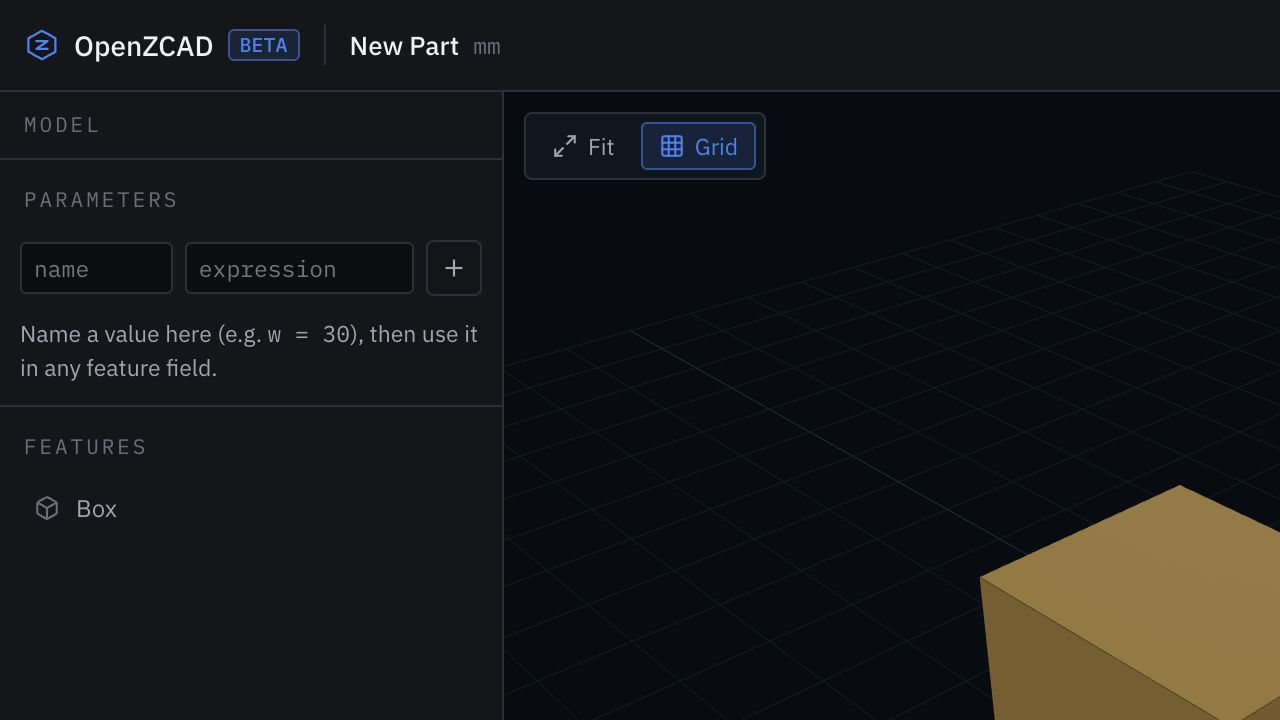
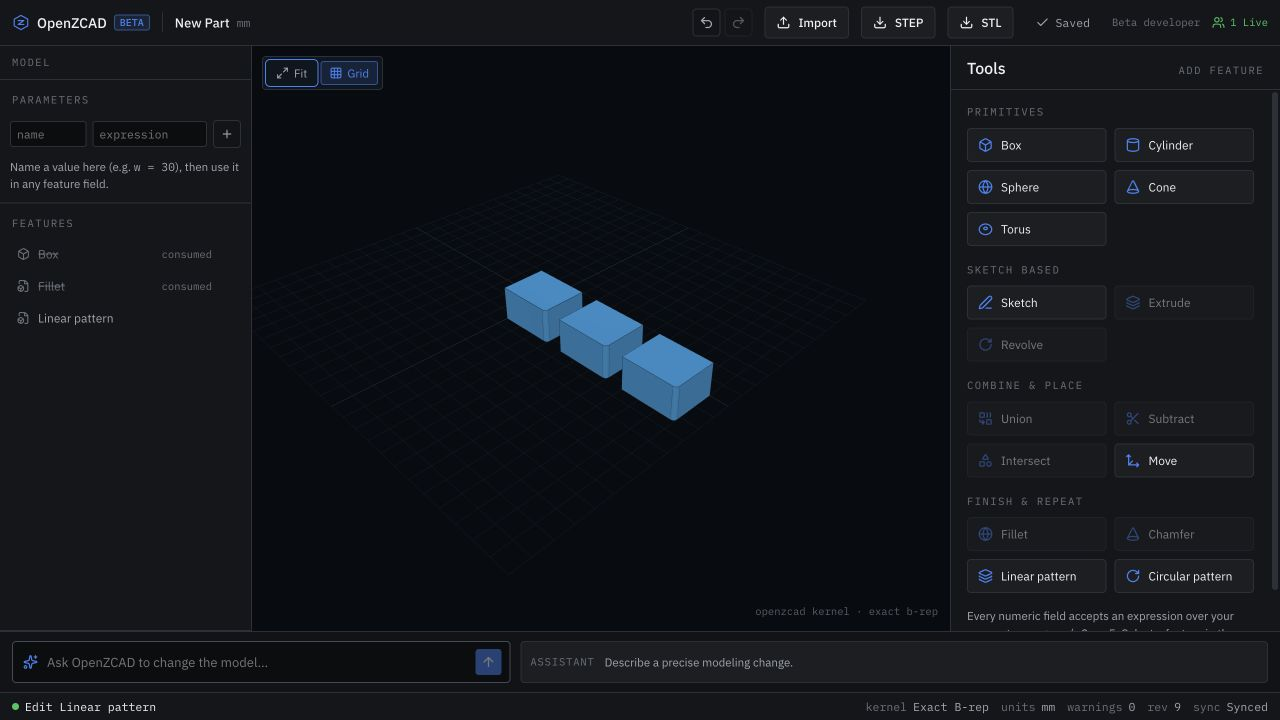
docs: update completed milestone guide

diff --git a/README.md b/README.md
@@ -6,11 +6,13 @@ OpenZCAD is a browser-first parametric CAD workspace for people who want to turn
 
 ## What works
 
-- Exact OpenCascade geometry for box, cylinder, sphere, cone, torus, sketch/extrude, revolve, transforms, and union/subtract/intersect booleans.
+- Exact OpenCascade geometry for primitives, sketch/extrude, revolve, transforms, booleans, fillet, chamfer, and linear/circular patterns.
 - Parametric expressions, ordered feature history, editing, deletion, deterministic replay, transactions, and undo/redo.
-- STEP and STL downloads generated by the same browser worker that rebuilds viewport geometry. Exact STEP exports are re-imported and validated in the test suite.
-- A dense model/viewport/inspector workspace with measurements, selection, diagnostics, and responsive compact states.
+- Editable STEP import stored in replayable document history, plus STEP and STL downloads generated by the same browser worker that rebuilds viewport geometry.
+- A dense model/viewport/inspector workspace with exact face/edge selection, contextual finishing actions, measurements, diagnostics, and responsive compact states.
 - Local-first IndexedDB autosave. When local and beta-cloud copies differ, OpenZCAD opens the newer document version instead of discarding local work.
+- Cloudflare Access identity in beta, owner-scoped project/artifact routes, and a development-only local identity mode. `AUTH_LEGACY_OWNER_EMAIL` can map existing beta data to its original owner without rewriting documents.
+- Live per-project collaboration over a Durable Object WebSocket room, with presence, version-aware document sync, and conflict preservation.
 - Optional streamed AI proposals through the OpenAI Responses API. Output is constrained to a strict CAD patch schema; users preview, apply, or reject it. Apply creates one normal undoable transaction.
 - Beta Worker endpoints for project persistence, revisions/checkpoints, upload coordination, artifact metadata, exports, and AI proposal streaming.
 
@@ -27,7 +29,8 @@ React workspace
 Cloudflare Worker (beta orchestration only)
   ├─ D1 project metadata and documents
   ├─ R2 artifact coordination
-  ├─ Durable Object collaboration scaffolding
+  ├─ Cloudflare Access identity + owner authorization
+  ├─ Durable Object live project rooms
   └─ OpenAI Responses API stream → strict CadPatchProposal
 ```
 
@@ -36,7 +39,7 @@ Important boundaries:
 - The browser document/history model is the source of truth. Meshes are disposable projections.
 - Geometry and exports run in the browser worker, never in the Cloudflare Worker.
 - AI can propose a small allowlisted command patch. It cannot directly mutate a document, viewport, or kernel.
-- Saves/checkpoints are separate from model-edit revisions. Schema-v1 documents migrate to schema v2 on load.
+- Saves/checkpoints are separate from model-edit revisions. Schema-v1 documents migrate to schema v2 on load and existing owner data can be mapped by email.
 
 See [architecture.md](architecture.md) and the decisions in [docs/adrs](docs/adrs).
 
@@ -51,6 +54,8 @@ pnpm dev:web
 ```
 
 Open the local URL printed by Vite. The CAD workspace works without an AI key; the assistant displays a clear configuration message until one is provided.
+
+Local development uses `AUTH_MODE=development` and the isolated `user_beta_dev` identity. Beta deployment uses `AUTH_MODE=cloudflare-access` and must sit behind a Cloudflare Access policy. Set `AUTH_LEGACY_OWNER_EMAIL` as a Worker secret or variable to the Access email that should inherit historical `user_beta_dev` projects.
 
 Configure secrets only in `apps/web/.dev.vars` or with `wrangler secret`:
 
@@ -83,30 +88,34 @@ The exact-kernel WASM bundle is about 22 MB uncompressed (about 7 MB gzip). It i
 ## API surface
 
 - `GET /api/health`
+- `GET /api/session`
 - `GET|POST /api/projects`
 - `GET /api/projects/:id`
 - `POST /api/projects/:id/revisions`
+- `GET /api/projects/:id/collaboration` (WebSocket upgrade)
 - `POST /api/uploads`
 - `POST /api/imports/finalize`
 - `POST /api/exports`
 - `GET /api/artifacts/:id`
 - `POST /api/assistant/proposals` (SSE)
 
-Existing project, revision, upload, import, export, and artifact routes were preserved. The AI proposal endpoint is additive.
+Existing project, revision, upload, import, export, and artifact route shapes were preserved. Session and collaboration routes are additive; existing data remains schema compatible.
 
 ## Beta limitations and risks
 
-- Authentication is not implemented. API requests use a fixed beta development user; do not expose this as a production service.
+- The beta route must be protected by Cloudflare Access. Local development identity mode is intentionally unsuitable for a public deployment.
 - D1/R2 IDs in the checked-in Wrangler configuration are beta placeholders until real beta resources are provisioned.
-- STEP upload currently reads metadata only. Exact STEP B-rep import exists at the kernel layer but is not yet represented as editable document features.
+- Editable STEP sources are embedded in the canonical document for deterministic offline replay and capped at 12 MB. This preserves editability but can make large documents expensive to save and sync.
 - Imported STL remains a mesh body and uses the compatibility path; native parametric reconstruction is not attempted.
-- AI proposal operations intentionally cover parameters, primitive creation/deletion, and selected feature dimensions. Complex sketch topology, patterns, fillets, and assemblies remain manual until their document commands exist.
+- Topology references use deterministic sub-shape ordinals. They survive an unchanged rebuild, but upstream geometry edits can reorder faces or edges and invalidate a downstream finishing feature with a visible diagnostic.
+- Live rooms synchronize canonical documents and presence, but do not yet provide invitations, roles, edit locks, or durable room history. Snapshots above 900 KB continue to save locally/cloud-side but are not broadcast live.
+- AI proposal operations intentionally remain narrower than the manual command surface: finishing features, patterns, and collaboration actions are not yet model-generated.
 - Exactness-first geometry adds a meaningful initial worker download. Service-worker caching and finer code splitting are future performance milestones.
 
 ## Next milestones
 
-1. Authentication and per-user project authorization.
-2. Editable STEP import and richer asset manifests.
-3. Face/edge selection, fillet/chamfer, patterns, mirror, shell, and face-attached sketches.
-4. Collaboration presence/locks on the existing Durable Object scaffolding.
-5. Broader AI patch operations as each feature receives a deterministic command contract.
+1. Sharing invitations, viewer/editor roles, locks, and durable collaboration history.
+2. Mirror, shell/offset, face-attached sketches, holes/pockets, and richer STEP assembly manifests.
+3. Persistent naming resilient to upstream topology changes.
+4. Broader AI patch operations as each feature receives a deterministic command contract.
+5. Exact-kernel caching, loading UX, and finer worker bundle splitting.

diff --git a/architecture.md b/architecture.md
@@ -4,11 +4,11 @@ OpenZCAD is a local-first parametric CAD system. The canonical `ProjectDocument`
 
 ## Layers
 
-- `shared`: branded IDs and schema-v2 contracts for nodes, revisions, checkpoints, assets, derived bodies, and API payloads.
-- `document-core`: immutable document operations, feature ordering, parameter expression evaluation, v1-to-v2 normalization, and checkpoint creation.
+- `shared`: branded IDs and schema-v2 contracts for nodes, revisions, checkpoints, assets, derived topology, collaboration messages, and API payloads.
+- `document-core`: immutable document operations, feature ordering, parameter expression evaluation, editable STEP features, finishing/pattern features, v1-to-v2 normalization, and checkpoint creation.
 - `command-system`: pre-assigned deterministic IDs, validation, transactions, replay, and bounded undo/redo. It also converts reviewed `CadPatchProposal` operations into ordinary commands.
 - `ai-contracts`: compact document digests, the strict JSON Schema sent to the model, runtime proposal validation, and the allowlisted patch operation types.
-- `kernel-adapter/exact`: the `occt-wasm` OpenCascade adapter. It owns exact primitives, sweeps, transforms, booleans, tessellation, validity checks, measurements, and STEP/STL export.
+- `kernel-adapter/exact`: the `occt-wasm` OpenCascade adapter. It owns exact primitives, STEP import, sweeps, transforms, booleans, edge finishing, patterns, tessellation/topology projection, validity checks, measurements, and STEP/STL export.
 - `kernel-adapter` and `geometry`: compatibility support for imported mesh bodies and deterministic legacy tests. They are not the primary exact modeling path.
 - `viewport`: Three.js projection and picking only. It never mutates canonical geometry or document state.
 - `persistence` and `cloudflare-adapters`: local/in-memory and D1/R2 implementations, schema normalization, revisions/checkpoints, upload sessions, and artifact coordination.
@@ -24,11 +24,21 @@ OpenZCAD is a local-first parametric CAD system. The canonical `ProjectDocument`
 6. The app rejects stale results and attaches only matching derived state without advancing model history.
 7. Manual save creates a durable checkpoint in the beta persistence service.
 
+Exact faces and edges are projected with deterministic one-based sub-shape ordinals. Selection remains viewport state until a command captures an ordinal; feature commands never depend on Three.js objects or transient OCCT handles.
+
 When opening a project, local and remote copies are loaded together. The higher document version wins; derived timestamps break ties. This prevents an older cloud response from shadowing newer local edits.
 
 ## Exact export lifecycle
 
 STEP/STL buttons send an export request to the existing geometry worker with the current document and selected live body IDs. The worker rebuilds the exact shapes and exports them through OpenCascade. The main thread only creates the download and records best-effort export metadata with the Worker API. The viewport and export therefore share the same exact build path.
+
+## Editable STEP lifecycle
+
+The browser reads an imported STEP file (up to 12 MB), records the source text and artifact reference in an `imported-step` feature command, and sends the canonical document to the geometry worker. OpenCascade imports the exact shape on every replay, so later transforms, booleans, fillets, chamfers, patterns, selection, and export use the same exact B-rep path. The Worker archives the source best-effort; replay does not depend on that network artifact.
+
+## Collaboration lifecycle
+
+After project ownership is authorized, the client upgrades `GET /api/projects/:id/collaboration` to a WebSocket. A per-project Durable Object broadcasts presence and canonical document snapshots, accepts only newer versions, and reports same-version divergent documents as conflicts. Clients preserve local state on conflict, strip derived meshes before transmission, debounce edits, and pause live broadcasting above 900 KB. IndexedDB and manual D1 checkpoints remain the durable recovery path.
 
 ## AI lifecycle
 
@@ -41,15 +51,15 @@ The client assembles `response.output_text.delta` events, validates the final pr
 - IndexedDB: immediate local autosave and offline reopen.
 - D1: project documents, project metadata, revision/checkpoint snapshots, upload sessions, and artifact metadata.
 - R2: large source/export assets when configured.
-- Durable Objects: collaboration/presence scaffolding only.
+- Durable Objects: authenticated per-project presence and live document synchronization.
 - Workflows/Queues: export/import orchestration scaffolding.
 - Worker secret: `AI_API_KEY` (with `OPENAI_API_KEY` backward compatibility); never shipped to the browser.
 - `AI_PROVIDER`, `AI_BASE_URL`, `AI_MODEL`, and `AI_REASONING_EFFORT` select a Responses-compatible provider and model without code changes.
 
 ## API and errors
 
-All JSON POST bodies are validated. Oversized bodies return `413`, malformed data `400`, missing resources `404`, unconfigured AI `503`, upstream AI failure `502`, and unexpected errors a generic `500`. Provider error bodies and secrets are never returned to the client.
+All JSON POST bodies are validated. Oversized bodies return `413`, malformed data `400`, unauthenticated requests `401`, unauthorized resources `404`, unconfigured services `503`, upstream AI failure `502`, and unexpected errors a generic `500`. Provider error bodies and secrets are never returned to the client.
 
 ## Security posture
 
-This remains beta-only. There is no authentication; requests act as `user_beta_dev`. Do not add a production target or domain until authentication and per-project authorization exist. Parameter expressions use a parser rather than `eval`. AI output is schema-constrained, runtime-validated, previewed, and user-approved before it becomes a command transaction.
+This remains beta-only. Beta requests require Cloudflare Access identity and all project, revision, artifact, import/export, and collaboration operations are owner-scoped. Development mode supplies an isolated local identity and must not be used on a public route. Cloudflare Access must be configured at the route boundary; the Worker intentionally trusts Access's injected assertion and email headers. Parameter expressions use a parser rather than `eval`. AI output is schema-constrained, runtime-validated, previewed, and user-approved before it becomes a command transaction.

diff --git a/docs/walkthrough.md b/docs/walkthrough.md
@@ -8,5 +8,8 @@
 6. **Combine**: choose **Union**, pick the plate then the boss. Then choose **Subtract**, pick the union result first and the drill cylinder second. The inputs are consumed; the result is a single watertight body.
 7. **Make it parametric**: change `w` to `80` in the sidebar — the whole part rebuilds. Select any feature in the history to edit its inputs, rename it, or delete it; undo/redo covers everything.
 8. **Sketches**: choose **Sketch** for profiles (rectangle/circle/polygon on the XY/XZ/YZ planes, with center offsets and plane offsets), then **Extrude** (distance can be an expression) or **Revolve** (offset the profile so it clears the axis).
-9. **Export**: the STEP button asks the same OpenCascade browser worker that built the viewport to write an exact ISO 10303-21 AP214 file of the selected body (or all live bodies); STL export follows the same path. Open the STEP file in FreeCAD, Fusion, or SolidWorks — it imports as a closed solid.
-10. Keep modeling while IndexedDB autosaves every document change. Use **Save** to create a durable beta-cloud checkpoint when the API is available; if it is not, the newer local version remains the source of truth.
+9. **Finish an edge**: click an exact edge in the viewport. Its stable edge ID appears in the inspector with contextual **Fillet** and **Chamfer** actions. Choose **Fillet**, enter a radius, and create it. Click a face to verify face-level selection in the same inspector.
+10. **Repeat a body**: choose **Linear pattern** or **Circular pattern**, select the latest live body, and set the count, axis, and spacing/angle. The source becomes consumed and the exact compound result remains editable in history.
+11. **Import and keep editing**: use **Import** to choose a STEP file. It becomes an `Imported STEP` feature backed by the embedded exact source, so it can participate in transforms, booleans, finishing, patterns, and export after replay. STL remains a mesh compatibility import.
+12. **Export**: the STEP button asks the same OpenCascade browser worker that built the viewport to write an exact ISO 10303-21 AP214 file of the selected body (or all live bodies); STL export follows the same path. Open the STEP file in FreeCAD, Fusion, or SolidWorks — it imports as a closed solid.
+13. Keep modeling while IndexedDB autosaves every document change. Use **Save** to create a durable beta-cloud checkpoint when the API is available. A green collaboration badge shows room presence; newer edits from another authenticated tab are applied live, while conflicts preserve the local copy for recovery.

diff --git a/TODO.md b/TODO.md
@@ -4,16 +4,16 @@
 
 - Schema-v2 canonical documents with migrations, checkpoints, asset references, command replay, transactions, undo/redo, and local-first autosave.
 - OpenCascade browser-worker kernel with exact primitives, sweeps, transforms, booleans, validity checks, measurements, and exact STEP/STL export.
-- Three-pane CAD workspace, feature editing, diagnostics, selection, responsive compact layout, and AI command rail.
+- Editable exact STEP import, deterministic face/edge selection, fillet/chamfer, and linear/circular patterns.
+- Three-pane CAD workspace, feature editing, diagnostics, contextual topology actions, responsive compact layout, and AI command rail.
 - Configurable streamed AI proposals with strict structured output, dry-run preview, explicit approval, and undoable application.
-- Beta Cloudflare project, revision, upload, export, artifact, and AI routes.
+- Cloudflare Access identity, owner-scoped beta APIs, and legacy-owner mapping.
+- Live per-project Durable Object rooms with presence, version-aware synchronization, and conflict preservation.
 
 ## Next
 
-- Authentication and per-project authorization.
-- Editable exact STEP import represented in the canonical feature/document model.
-- Face/edge selection and face-attached sketches.
-- Fillet, chamfer, shell/offset, mirror, and linear/circular patterns.
+- Invitations, viewer/editor roles, edit locks, and durable collaboration history.
+- Face-attached sketches, shell/offset, mirror, and persistent topology naming.
 - Multi-profile sketches, holes/pockets, partial revolve, and symmetric/two-sided extrude.
 - Broader deterministic AI patch operations for those features.
 - Cache and loading UX improvements for the exact-kernel WASM module.
@@ -22,4 +22,4 @@
 
 - Assemblies and mates.
 - Drawings, dimensions, and inspection tools.
-- Collaboration presence, locks, and conflict resolution on the existing Durable Object scaffold.
+- Constraint solving, design tables, and variant management.

diff --git a/docs/adrs/ADR-007-access-auth-and-live-rooms.md b/docs/adrs/ADR-007-access-auth-and-live-rooms.md
@@ -1,0 +1,18 @@
+# ADR-007: Cloudflare Access Identity and Per-Project Live Rooms
+
+## Status
+
+Accepted.
+
+## Decision
+
+Use Cloudflare Access as the beta identity boundary. The Worker derives a stable user ID from Access's asserted email, scopes every project and artifact operation to that user, and exposes the current identity through `GET /api/session`. Local development uses an explicit `development` mode and the isolated `user_beta_dev` identity. `AUTH_LEGACY_OWNER_EMAIL` maps one Access identity to historical beta data without rewriting stored documents.
+
+Route each authenticated project WebSocket through one Durable Object. The room tracks presence and the latest canonical document, broadcasts only newer versions, and reports same-version divergent snapshots as conflicts. Clients preserve their local document on conflict and continue to use IndexedDB plus D1 checkpoints as durable recovery.
+
+## Consequences
+
+- Existing HTTP route shapes and document schemas remain compatible.
+- The beta route must be protected by a real Cloudflare Access policy; development auth must never be exposed publicly.
+- Collaboration is owner-only for now. Invitations, roles, locks, and durable room event history are separate milestones.
+- Large documents remain editable and saveable, but live broadcast pauses above the client snapshot limit.

diff --git a/docs/design/README.md b/docs/design/README.md
@@ -70,4 +70,7 @@ All visible controls and text are code-native. The concept image is a visual spe
 - Density adaptation: the implemented rails use 46px/252px/330px/28px dimensions so more viewport remains available on common laptop displays.
 - Functional adaptation: the live viewport displays the user's actual model rather than a hard-coded mounting bracket.
 - Functional adaptation: the compact rail shows the proposal summary; Preview makes the proposed geometry inspectable before Apply. Without an AI API key, the rail reports the configuration state.
+- Functional adaptation: authenticated identity and live-room presence sit in the top bar without displacing the core modeling actions.
+- Functional adaptation: finishing and pattern tools extend the contextual inspector while preserving the concept's compact tool density; exact face/edge IDs appear only when selected.
+- QA result: the implemented layout, rail hierarchy, control density, typography, graphite/blue visual system, and core viewport-first workflow remain faithful to the concept. The live QA capture uses actual exact fillet and pattern geometry rather than concept-only sample content.
 - Compact breakpoints preserve the model and viewport first; the inspector hides only below 820 px, where full CAD editing is not the primary target.

diff --git a/docs/adrs/ADR-008-exact-topology-and-finishing.md b/docs/adrs/ADR-008-exact-topology-and-finishing.md
@@ -1,0 +1,17 @@
+# ADR-008: Deterministic Exact Topology References
+
+## Status
+
+Accepted.
+
+## Decision
+
+Expose face and edge selections as one-based OpenCascade sub-shape ordinals generated during each exact rebuild. The viewport receives those IDs with the disposable mesh/wire projection. When a finishing command is created, it captures the selected edge ordinals in the canonical document; the exact adapter resolves them against the rebuilt target shape before applying fillet or chamfer.
+
+Store editable STEP source text in the import feature command, with an artifact reference for archival. This makes STEP replay deterministic and offline while keeping all geometry work inside the browser worker. Patterns likewise remain ordinary replayable document features and produce exact compound shapes.
+
+## Consequences
+
+- Topology IDs survive command replay and fresh OCCT handles for unchanged upstream geometry; transient OCCT hash codes do not.
+- Upstream changes can reorder sub-shapes. A stale finishing reference fails visibly instead of silently selecting a different edge. Persistent geometric naming is a future milestone.
+- Embedded STEP source increases document size, so import and collaboration limits are explicit.

diff --git a/docs/adrs/ADR-006-opencascade-browser-kernel.md b/docs/adrs/ADR-006-opencascade-browser-kernel.md
@@ -14,7 +14,7 @@ OpenZCAD's core promise requires analytic primitives and exact boolean/export to
 
 ## Consequences
 
-- STEP files come from exact OpenCascade shapes and are re-imported in tests as valid solids.
+- STEP files import into replayable exact features; exports come from exact OpenCascade shapes and are re-imported in tests as valid solids.
 - Viewport meshes remain disposable tessellations of exact B-reps.
 - The initial exact-kernel download is materially larger than the previous compatibility kernel.
 - Imported STL bodies keep the compatibility path because triangle meshes are not parametric B-reps.

diff --git a/docs/adrs/ADR-005-builtin-polyhedral-kernel.md b/docs/adrs/ADR-005-builtin-polyhedral-kernel.md
@@ -25,4 +25,4 @@ STEP export is implemented natively in `io-step` as an ISO 10303-21 AP214 writer
 
 - Curved faces are tessellated at fixed segment counts; file sizes grow with tessellation density.
 - Boolean results with coplanar overlapping faces can produce imperfect shells; the export path surfaces a warning instead of hiding it.
-- STEP _import_ remains metadata-only until the native kernel lands.
+- Historical limitation: STEP import was metadata-only on this compatibility path. ADR-006 and ADR-008 replace that behavior with editable OpenCascade imports.
